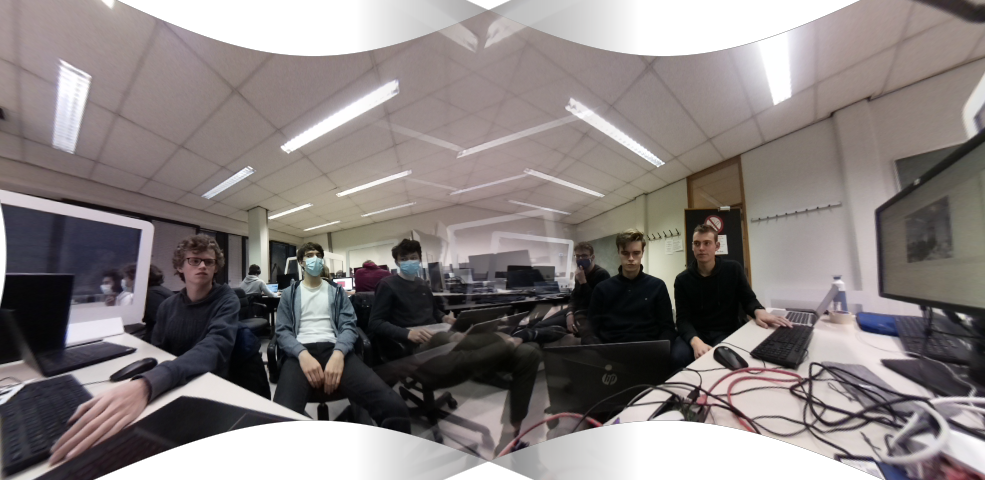
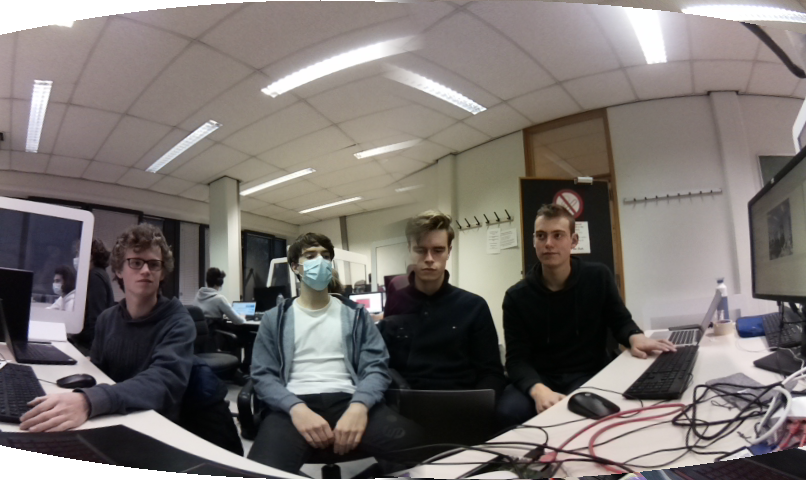
fix blend bug

diff --git a/programs/non_multi_threaded/main_v8_pc.py b/programs/non_multi_threaded/main_v8_pc.py
@@ -1,7 +1,7 @@
 import numpy as np
 import cv2
-import imagezmq
-from imutils.video import VideoStream
+#import imagezmq
+#from imutils.video import VideoStream
 from time import sleep
 from math import floor, ceil
 
@@ -9,20 +9,17 @@ from math import floor, ceil
 # CONSTANTS
 # ==============================
 
-CAMERAMODE = 2 # 1 = imutils.VideoStream, 2 = cv2.VideoCapture
+#CAMERAMODE = 1 # 1 = imutils.VideoStream, 2 = cv2.VideoCapture
 CALIBRATION_RESOLUTION = WIDTH, HEIGHT = (640, 480)
 STREAM_RESOLUTION      = (640, 480)
-RB_IP_MAIN =    'tcp://169.254.222.67:5555'
-RB_IP_HELPER =  'tcp://169.254.165.116:5555'
+#RB_IP_MAIN =    'tcp://169.254.165.116:5555'
+#RB_IP_HELPER =  'tcp://169.254.222.67:5555'
 #PC_IP =         'tcp://192.168.137.1:5555'
 #PC_IP = 'tcp://169.254.62.171:5555'
-PC_IP = 'tcp://169.254.236.78:5555'
-PREVIOUS_CALIBRATION_DATA_PATH = "calibration_data.txt"
+#PC_IP = 'tcp://169.254.236.78:5555'
+#PREVIOUS_CALIBRATION_DATA_PATH = "calibration_data.txt"
 
-INIT_HELPER_CMD = "sh ssHEIGHTconn_and_execute_cmd.sh 'cd Desktop/PenO3-CW4A1/programs/MAIN_code/non_multi_threaded;python3 ./helper_v3.py'"
-#os.system(INIT_HELPER_CMD)       # init helper pi
-
-BLURR_WIDTH = 3/4
+BLURR_WIDTH = 1/10
 
 KEYPOINT_COUNT = 2000  # set number of keypoints
 MAX_MATCH_Y_DISP = 20 # maximum vertical displacement of valid match in pixels
@@ -30,10 +27,10 @@ MIN_MATCH_COUNT = 5  # set minimum number of better_matches
 KEYPOINT_MASK_X_BOUND = 0.4 # only search for keypoints in this fraction of pixel towards the bound
 
 # focal length = 3.15mm volgens waveshare.com/imx219-d160.htm
-FOCAL_LEN_L_X = 360
-FOCAL_LEN_L_Y = 360
-FOCAL_LEN_R_X = 360
-FOCAL_LEN_R_Y = 360
+FOCAL_LEN_L_X = 315
+FOCAL_LEN_L_Y = 315
+FOCAL_LEN_R_X = 315
+FOCAL_LEN_R_Y = 315
 s = 0 # skew parameter
 
 KL = np.array([[FOCAL_LEN_L_X, s, WIDTH/2], [0, FOCAL_LEN_L_Y, HEIGHT/2], [0, 0, 1]], dtype=np.uint16)  # mock intrinsics
@@ -42,6 +39,7 @@ KR = np.array([[FOCAL_LEN_R_X, 0, WIDTH/2], [0, FOCAL_LEN_R_Y, HEIGHT/2], [0, 0,
 
 PRECROP_ENABLED = True
 
+'''
 if CAMERAMODE == 1:
     PICAM = VideoStream(usePiCamera=True, resolution=CALIBRATION_RESOLUTION).start()
 elif CAMERAMODE ==2:
@@ -50,41 +48,25 @@ elif CAMERAMODE ==2:
     PICAM.set(cv2.CAP_PROP_FRAME_HEIGHT, CALIBRATION_RESOLUTION[1])
 IMAGE_HUB = imagezmq.ImageHub()
 
-sleep(0)  # allow camera sensor to warm up and wait to make sure helper is running
+sleep(2)  # allow camera sensor to warm up and wait to make sure helper is running
 SENDER = imagezmq.ImageSender(connect_to=RB_IP_HELPER)
+
+
 
 # ==============================
 # INITIALISATION
 # ==============================
 
-imgL = cv2.cvtColor(cv2.imread("../../cylindrical_projection/sterio_vision/images/left/left3.png"), cv2.COLOR_BGR2BGRA)
-imgR = cv2.cvtColor(cv2.imread("../../cylindrical_projection/sterio_vision/images/right/right3.png"), cv2.COLOR_BGR2BGRA)
+SENDER.send_image(RB_IP_MAIN, np.array(["ready"]))
+print("Ready message was received by helper")
 
-def get_cyl_wrap_assets_no_crop(K):
-    """
-    This function returns the cylindrical warp for a given image and intrinsics matrix K
-    SOURCE: ???????
-    """
-    # pixel coordinates
-    y_i, x_i = np.indices((HEIGHT, WIDTH))
-    X = np.stack([x_i, y_i, np.ones_like(x_i)], axis=-1)
-    print(X.shape)
-    X.reshape(HEIGHT * WIDTH, 3)  # to homog
-    print(X.shape)
-    Kinv = np.linalg.inv(K)
-    X = Kinv.dot(X.T).T  # normalized coords
-    # calculate cylindrical coords (sin\theta, h, cos\theta)
-    A = np.stack([np.sin(X[:, 0]), X[:, 1], np.cos(X[:, 0])], axis=-1).reshape(WIDTH * HEIGHT, 3)
-    #boven onder: A = np.stack([X[:, 0], np.sin(X[:, 1]), np.cos(X[:, 1])], axis=-1).reshape(WIDTH * HEIGHT, 3)
-    B = K.dot(A.T).T  # project back to image-pixels plane
-    # back from homog coords
-    B = B[:, :-1] / B[:, [-1]]
-    # make sure warp coords only within image bounds
-    B[(B[:, 0] < 0) | (B[:, 0] >= WIDTH) | (B[:, 1] < 0) | (B[:, 1] >= HEIGHT)] = -1
+imgR = cv2.cvtColor(PICAM.read(), cv2.COLOR_BGR2BGRA)
+imgL = IMAGE_HUB.recv_image()[1]
+IMAGE_HUB.send_reply(b'OK')
+'''
 
-    B = B.reshape(HEIGHT, WIDTH, -1)
- 
-    return B[:, :, 0].astype(np.float32), B[:, :, 1].astype(np.float32)
+imgL = cv2.cvtColor(cv2.imread("./programs/cylindrical_projection/sterio_vision/images/left/left0.png"), cv2.COLOR_BGR2BGRA)
+imgR = cv2.cvtColor(cv2.imread("./programs/cylindrical_projection/sterio_vision/images/right/right0.png"), cv2.COLOR_BGR2BGRA)
 
 def get_cyl_wrap_assets_crop(K):
     """
@@ -96,17 +78,20 @@ def get_cyl_wrap_assets_crop(K):
     X = np.stack([x_i, y_i, np.ones_like(x_i)], axis=-1).reshape(HEIGHT * WIDTH, 3)  # to homog
     Kinv = np.linalg.inv(K)
     X = Kinv.dot(X.T).T  # normalized coords
-    # calculate cylindrical coords (sin\theta, h, cos\theta)
-    A = np.stack([np.sin(X[:, 0]), X[:, 1], np.cos(X[:, 0])], axis=-1).reshape(WIDTH * HEIGHT, 3)
-    #boven onder: A = np.stack([X[:, 0], np.sin(X[:, 1]), np.cos(X[:, 1])], axis=-1).reshape(WIDTH * HEIGHT, 3)
-    B = K.dot(A.T).T  # project back to image-pixels plane
-    # back from homog coords
+    theta_s = X[:, 0]
+    phi_s = X[:, 1]
+    A = np.stack([np.cos(phi_s) * np.sin(theta_s), np.sin(phi_s), np.cos(phi_s) * np.cos(theta_s)], axis=-1).reshape(
+        WIDTH * HEIGHT, 3)
+    #B = K.dot(A.T).T
+    ro = np.arctan2(np.sqrt(A[:,0]**2 + A[:,1]**2),A[:,2])
+    theta = np.arctan2(A[:,1],A[:,0])
+    B = np.stack([ro*np.cos(theta), ro*np.sin(theta), np.ones_like(A[:,0])], axis=-1).reshape(WIDTH * HEIGHT, 3)
+    B = K.dot(B.T).T  # project back to image-pixels plane
     B = B[:, :-1] / B[:, [-1]]
     # make sure warp coords only within image bounds
     B[(B[:, 0] < 0) | (B[:, 0] >= WIDTH) | (B[:, 1] < 0) | (B[:, 1] >= HEIGHT)] = -1
-    x_L, x_R = [], []
-
     B = B.reshape(HEIGHT, WIDTH, -1)
+    x_L, x_R = [], []
     for y, r in enumerate(B):
         foundleft = False
         for x, p in enumerate(r):
@@ -118,6 +103,7 @@ def get_cyl_wrap_assets_crop(K):
                 break
     x_L, x_R = min(x_L), max(x_R)
     B = B[:, x_L:x_R]
+
     return x_L, x_R, B[:, :, 0].astype(np.float32), B[:, :, 1].astype(np.float32)
 
 def warp_image(img, map1, map2):
@@ -184,59 +170,6 @@ def get_translation_parameters(imgL, imgR, log=False):
     
     return x_t, avg_y_disp
 
-def get_x_combine_assets_transparent_borders_no_precrop(x_t, log=False):
-    '''
-    SOURCE FOR IMAGE BLENDING CODE: ??????
-    '''
-    for pi, pixel in enumerate(np.flip(imgL[240])):
-        if pixel[3] != 0:
-            xLn = pi # distance overlap point to black border
-            break
-    for pi, pixel in enumerate(imgR[240]):
-        if pixel[3] != 0:
-            xRn = pi
-            break
-
-    xt = x_t - xLn - xRn
-    height, width = imgL.shape[:2]
-    imgL_cropped_width = width - 2*xLn
-    imgR_cropped_width = width - 2*xRn
-
-    combined_width = imgL_cropped_width + imgR_cropped_width - xt
-    imgL_cropped_noblend_width = imgL_cropped_width - xt
-    imgR_cropped_noblend_width = imgR_cropped_width - xt
-    pre_imgR_width = imgL_cropped_noblend_width
-    post_imgL_width = imgR_cropped_noblend_width
-
-    print(xt)
-
-    # small linear masks
-    maskL = np.repeat(np.tile(np.linspace(1, 0, xt), (height, 1))[:, :, np.newaxis], 4, axis=2)
-    maskR = np.repeat(np.tile(np.linspace(0, 1, xt), (height, 1))[:, :, np.newaxis], 4, axis=2)
-
-    # full show mask
-    mask_imgL_cropped_noblend = np.repeat(np.tile(np.full(imgL_cropped_noblend_width, 1.), (height, 1))[:, :, np.newaxis], 4, axis=2)
-    mask_imgR_cropped_noblend = np.repeat(np.tile(np.full(imgR_cropped_noblend_width, 1.), (height, 1))[:, :, np.newaxis], 4, axis=2)
-    mask_post_imgL = np.repeat(np.tile(np.full((post_imgL_width), 0.), (height, 1))[:, :, np.newaxis], 4, axis=2)
-    mask_pre_imgR = np.repeat(np.tile(np.full((pre_imgR_width), 0.), (height, 1))[:, :, np.newaxis], 4, axis=2)
-
-    mask_realL = np.concatenate((mask_imgL_cropped_noblend, maskL, mask_post_imgL), axis=1)
-    mask_realR = np.concatenate((mask_pre_imgR, maskR, mask_imgR_cropped_noblend), axis=1)
-
-    TL= np.float32([[1, 0, -xLn], [0, 1, 0]])
-    TR = np.float32([[1, 0, (width - 2*xLn -xRn - xt)], [0, 1, 0]])
-
-    if log:
-        cv2.imshow('mask_realL', mask_realL)
-        cv2.imshow('mask_realR', mask_realR)
-        print('combined width:', combined_width)
-        print('height', height)
-        print('TL', TL)
-        print('TR', TR)
-        cv2.waitKey(0)
-
-    return TL, TR, combined_width, mask_realL, mask_realR
-
 def get_x_combine_assets_transparent_borders_precrop(xt, log=False):
     '''
     SOURCE FOR IMAGE BLENDING CODE: ??????
@@ -244,13 +177,15 @@ def get_x_combine_assets_transparent_borders_precrop(xt, log=False):
     height, imgL_cropped_width = imgL.shape[:2]
     height, imgR_cropped_width = imgR.shape[:2]
 
-    combined_width = imgL_cropped_width + imgR_cropped_width - xt
+    print(imgL_cropped_width, imgR_cropped_width)
+
     imgL_cropped_no_overlap_width = imgL_cropped_width - xt
 
     imgL_cropped_noblend_width = imgL_cropped_width - ceil((1 + BLURR_WIDTH)/2 * xt)
     imgR_cropped_noblend_width = imgR_cropped_width - ceil((1 + BLURR_WIDTH)/2 * xt)
     pre_imgR_width = imgL_cropped_noblend_width
     post_imgL_width = imgR_cropped_noblend_width
+
     # linear blend masks
     maskL = np.repeat(np.tile(np.linspace(1, 0, ceil(xt * BLURR_WIDTH)), (height, 1))[:, :, np.newaxis], 4, axis=2)
     maskR = np.repeat(np.tile(np.linspace(0, 1, ceil(xt * BLURR_WIDTH)), (height, 1))[:, :, np.newaxis], 4, axis=2)
@@ -266,8 +201,11 @@ def get_x_combine_assets_transparent_borders_precrop(xt, log=False):
     # full-sized masks
     mask_realL = np.concatenate((mask_imgL_cropped_noblend, maskL, mask_post_imgL), axis=1)
     mask_realR = np.concatenate((mask_pre_imgR, maskR, mask_imgR_cropped_noblend), axis=1)
+
     TL= np.float32([[1, 0, 0], [0, 1, 0]])
     TR = np.float32([[1, 0, imgL_cropped_no_overlap_width], [0, 1, 0]])
+
+    height_real, combined_width = mask_realL.shape[:2]
 
     if log:
         cv2.imshow('mask_realL', mask_realL)
@@ -276,68 +214,42 @@ def get_x_combine_assets_transparent_borders_precrop(xt, log=False):
         print('height', height)
         print('TL', TL)
         print('TR', TR)
-        print('xt', xt)
+        print('xt', x_t)
         cv2.waitKey(0)
 
     return TL, TR, combined_width, mask_realL, mask_realR
 
-def combine():
-    cv2.imshow('imgL', imgL)
-    cv2.imshow('imgR', imgR)
+def combine(log = False):
     imgL_translation = cv2.warpAffine(imgL, TL, (combined_width, HEIGHT))
-    cv2.imshow('imgL_translation', imgL_translation)
     imgR_translation = cv2.warpAffine(imgR, TR, (combined_width, HEIGHT))
-    cv2.imshow('imgR_translation', imgR_translation)
-    cv2.waitKey(0)
+    
     final = np.uint8(imgL_translation * mask_realL + imgR_translation * mask_realR)
-
-    cv2.namedWindow("output", cv2.WINDOW_KEEPRATIO)
-    cv2.imshow('output', final)
-    cv2.waitKey(0)
-
-if PRECROP_ENABLED:
-    xL_L, xL_R, MAPL1, MAPL2 = get_cyl_wrap_assets_crop(KL)
-    xR_L, xR_R, MAPR1, MAPR2 = get_cyl_wrap_assets_crop(KR)
-else:
-    MAPL1, MAPL2 = get_cyl_wrap_assets_no_crop(KL)
-    MAPR1, MAPR2 = get_cyl_wrap_assets_no_crop(KR)
+    if log:
+        pass
+    return final
 
 
+xR_L, xR_R, MAPR1, MAPR2 = get_cyl_wrap_assets_crop(KR)
+xL_L, xL_R, MAPL1, MAPL2 = get_cyl_wrap_assets_crop(KL)
+
+#SENDER.send_image(RB_IP_MAIN, np.array([MAPL1, MAPL2]))
+#print('Sent MAPL1 and MAPL2')
+
+#x_t, y_t = get_translation_parameters(imgL, imgR, log=False)
+x_t = 471
 imgL = warp_image(imgL, MAPL1, MAPL2)
 imgR = warp_image(imgR, MAPR1, MAPR2)
-cv2.imshow("imgL", imgL)
-cv2.imshow("imgR", imgR)
-cv2.waitKey(0)
-x_t, y_t = get_translation_parameters(imgL, imgR, log=False)
-print(x_t)
-if PRECROP_ENABLED:
-    TL, TR, combined_width, mask_realL, mask_realR = get_x_combine_assets_transparent_borders_precrop(x_t, log=False)
-else:
-    TL, TR, combined_width, mask_realL, mask_realR = get_x_combine_assets_transparent_borders_no_precrop(x_t, log=False)
 
+TL, TR, combined_width, mask_realL, mask_realR = get_x_combine_assets_transparent_borders_precrop(x_t, log=False)
 
-combine()
+cv2.imwrite("output.png", combine())
+
 
 '''
-loop would look like:
+SENDER = imagezmq.ImageSender(connect_to=PC_IP)
 while True:
-    imgL = cv2.remap(PICAM.read(), MAPL1, MAPL2, cv2.INTER_AREA, borderMode=cv2.BORDER_TRANSPARENT)
-    imgR = IMAGEHUB.recvimage[1]
-    SENDER.sendimage(np.uint8(cv2.warpAffine(imgL, TL, (combined_width, HEIGHT)) * mask_realL + cv2.warpAffine(imgR, TR, (combined_width, HEIGHT)) * mask_realR))
-    IMAGEHUB.sendreply(b'OK')
-
-'''
-    
-'''
-TO DO:
-[X] Remove linear-alpha blending artefacts
-[X] Crop Final image
-[X] Optimization
-[X] Lock camera settings (ISO, shutterspeed, whitebalance, etc.)
-
-TO CONSIDER:
-[X] Add vertical displacement correction
-[X] Add rotational correction
-[X] Add perspective correction
-
+    imgR = cv2.remap(cv2.cvtColor(PICAM.read(), cv2.COLOR_BGR2BGRA), MAPL1, MAPL2, cv2.INTER_AREA, borderMode=cv2.BORDER_TRANSPARENT)
+    imgL = IMAGE_HUB.recv_image()[1]
+    SENDER.send_image(RB_IP_MAIN, np.uint8(cv2.warpAffine(imgL, TL, (combined_width, HEIGHT)) * mask_realL + cv2.warpAffine(imgR, TR, (combined_width, HEIGHT)) * mask_realR))
+    IMAGE_HUB.send_reply(b'OK')
 '''

diff --git a/programs/non_multi_threaded/main_v8.py b/programs/non_multi_threaded/main_v8.py
@@ -228,7 +228,6 @@ def get_x_combine_assets_transparent_borders_precrop(xt, log=False):
     height, imgL_cropped_width = imgL.shape[:2]
     height, imgR_cropped_width = imgR.shape[:2]
 
-    combined_width = imgL_cropped_width + imgR_cropped_width - xt
     imgL_cropped_no_overlap_width = imgL_cropped_width - xt
 
     imgL_cropped_noblend_width = imgL_cropped_width - ceil((1 + BLURR_WIDTH)/2 * xt)
@@ -254,6 +253,8 @@ def get_x_combine_assets_transparent_borders_precrop(xt, log=False):
 
     TL= np.float32([[1, 0, 0], [0, 1, 0]])
     TR = np.float32([[1, 0, imgL_cropped_no_overlap_width], [0, 1, 0]])
+
+    height_real, combined_width = mask_realL.shape[:2]
 
     if log:
         cv2.imshow('mask_realL', mask_realL)

diff --git a/programs/non_multi_threaded/main_v9.py b/programs/non_multi_threaded/main_v9.py
@@ -162,7 +162,6 @@ def get_combine_objects(xt, log=False):
     height, imgL_cropped_width = imgL.shape[:2]
     height, imgR_cropped_width = imgR.shape[:2]
 
-    combined_width = imgL_cropped_width + imgR_cropped_width - xt
     imgL_cropped_no_overlap_width = imgL_cropped_width - xt
 
     imgL_cropped_noblend_width = imgL_cropped_width - ceil((1 + BLEND_FRAC)/2 * xt)
@@ -188,6 +187,8 @@ def get_combine_objects(xt, log=False):
 
     TL= np.float32([[1, 0, 0], [0, 1, 0]])
     TR = np.float32([[1, 0, imgL_cropped_no_overlap_width], [0, 1, 0]])
+
+    height_real, combined_width = mask_realL.shape[:2]
 
     if log:
         cv2.imshow('mask_realL', mask_realL)
